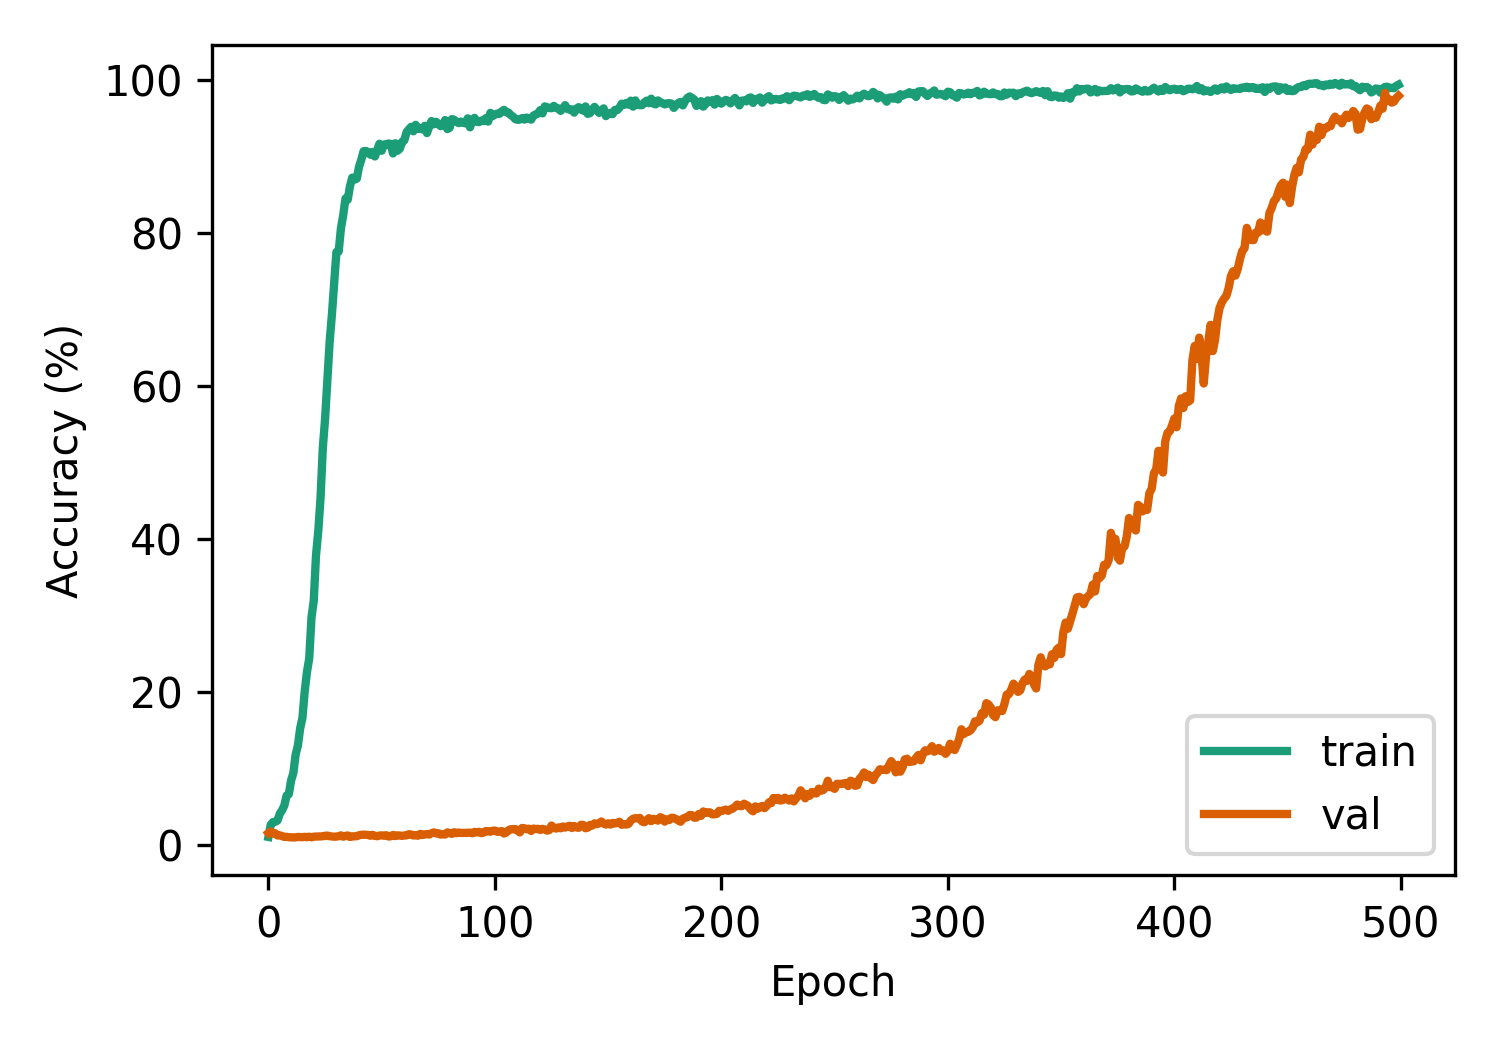
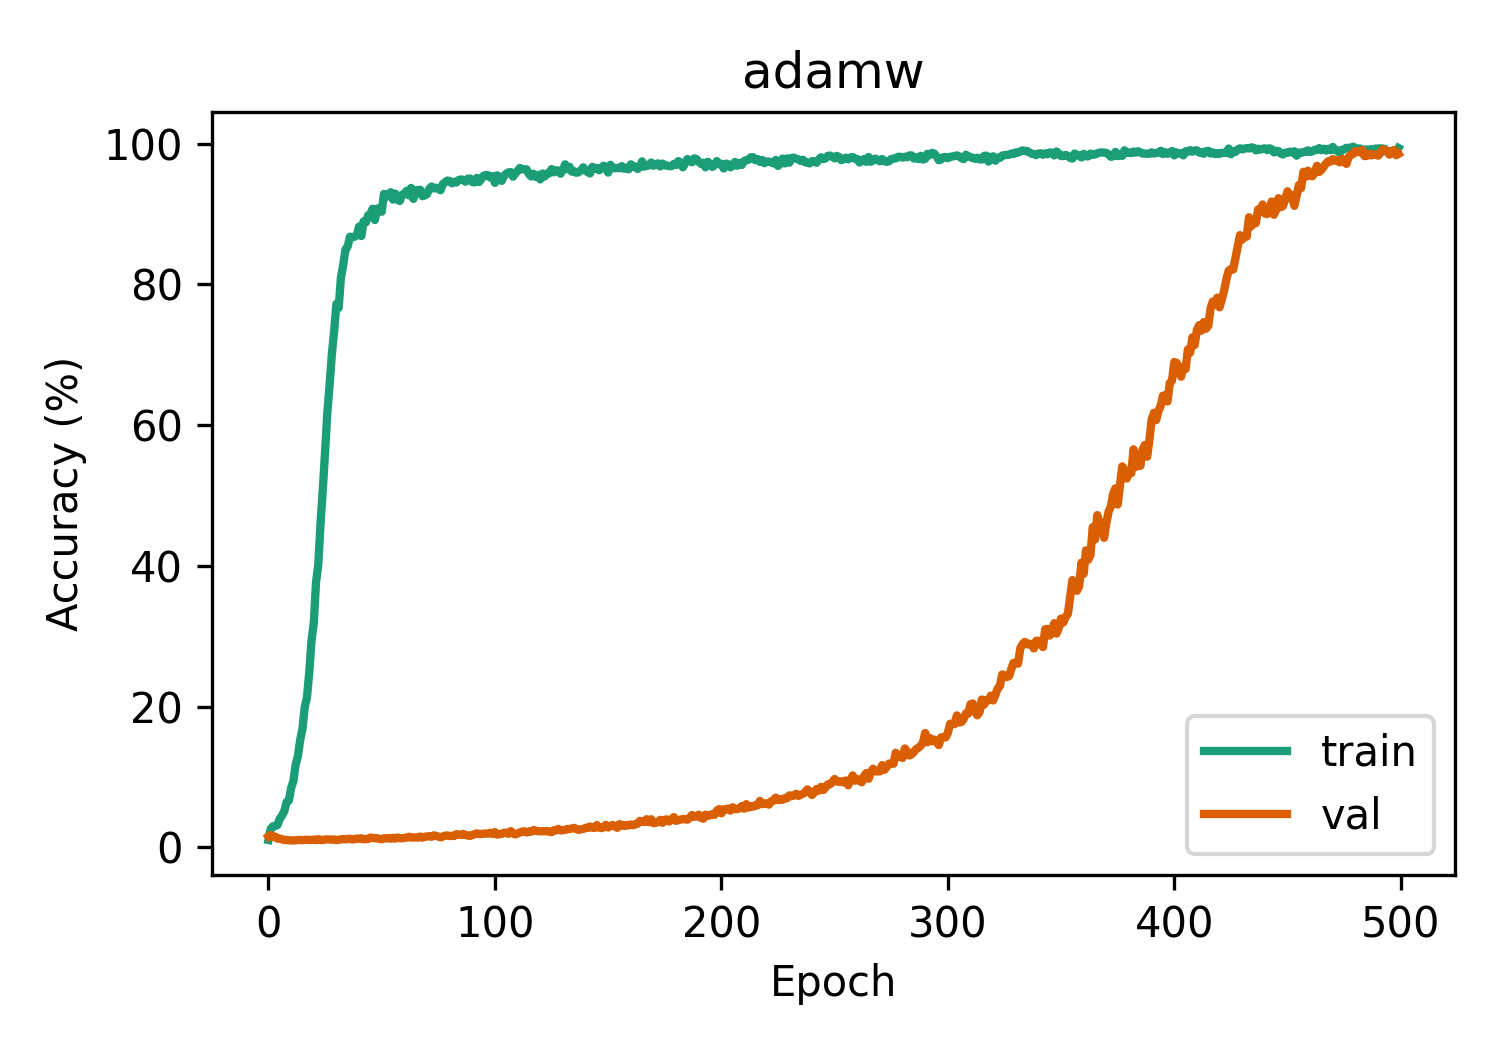
updates

diff --git a/main.py b/main.py
@@ -214,6 +214,7 @@ def main(args):
     ax.plot(np.array(net.val_acc_trace) * 100, label='val', color='#d95f02', lw=lw)
     ax.set_xlabel('Epoch')
     ax.set_ylabel('Accuracy (%)')
+    ax.set_title(args.optimizer)
     ax.legend()
     fig.tight_layout()
     op_safe = args.op.replace('/', 'div').replace('*', 'mul').replace('+', 'add').replace('-', 'sub')

diff --git a/README.md b/README.md
@@ -1,6 +1,6 @@
 # Grokking Modular Arithmetic (MLX)
 
-## Best Configurations
+## PSGD vs AdamW
 
 **AdamW:**
 <p align="center">
@@ -11,6 +11,8 @@
 <p align="center">
   <img src="media/best_psgd.png" alt="Best QUAD Configuration" width="60%">
 </p>
+
+## Grokking
 
 <p align="center">
   <img src="media/grokking_white_spines.png#gh-dark-mode-only" alt="Grokking" width="50%">
